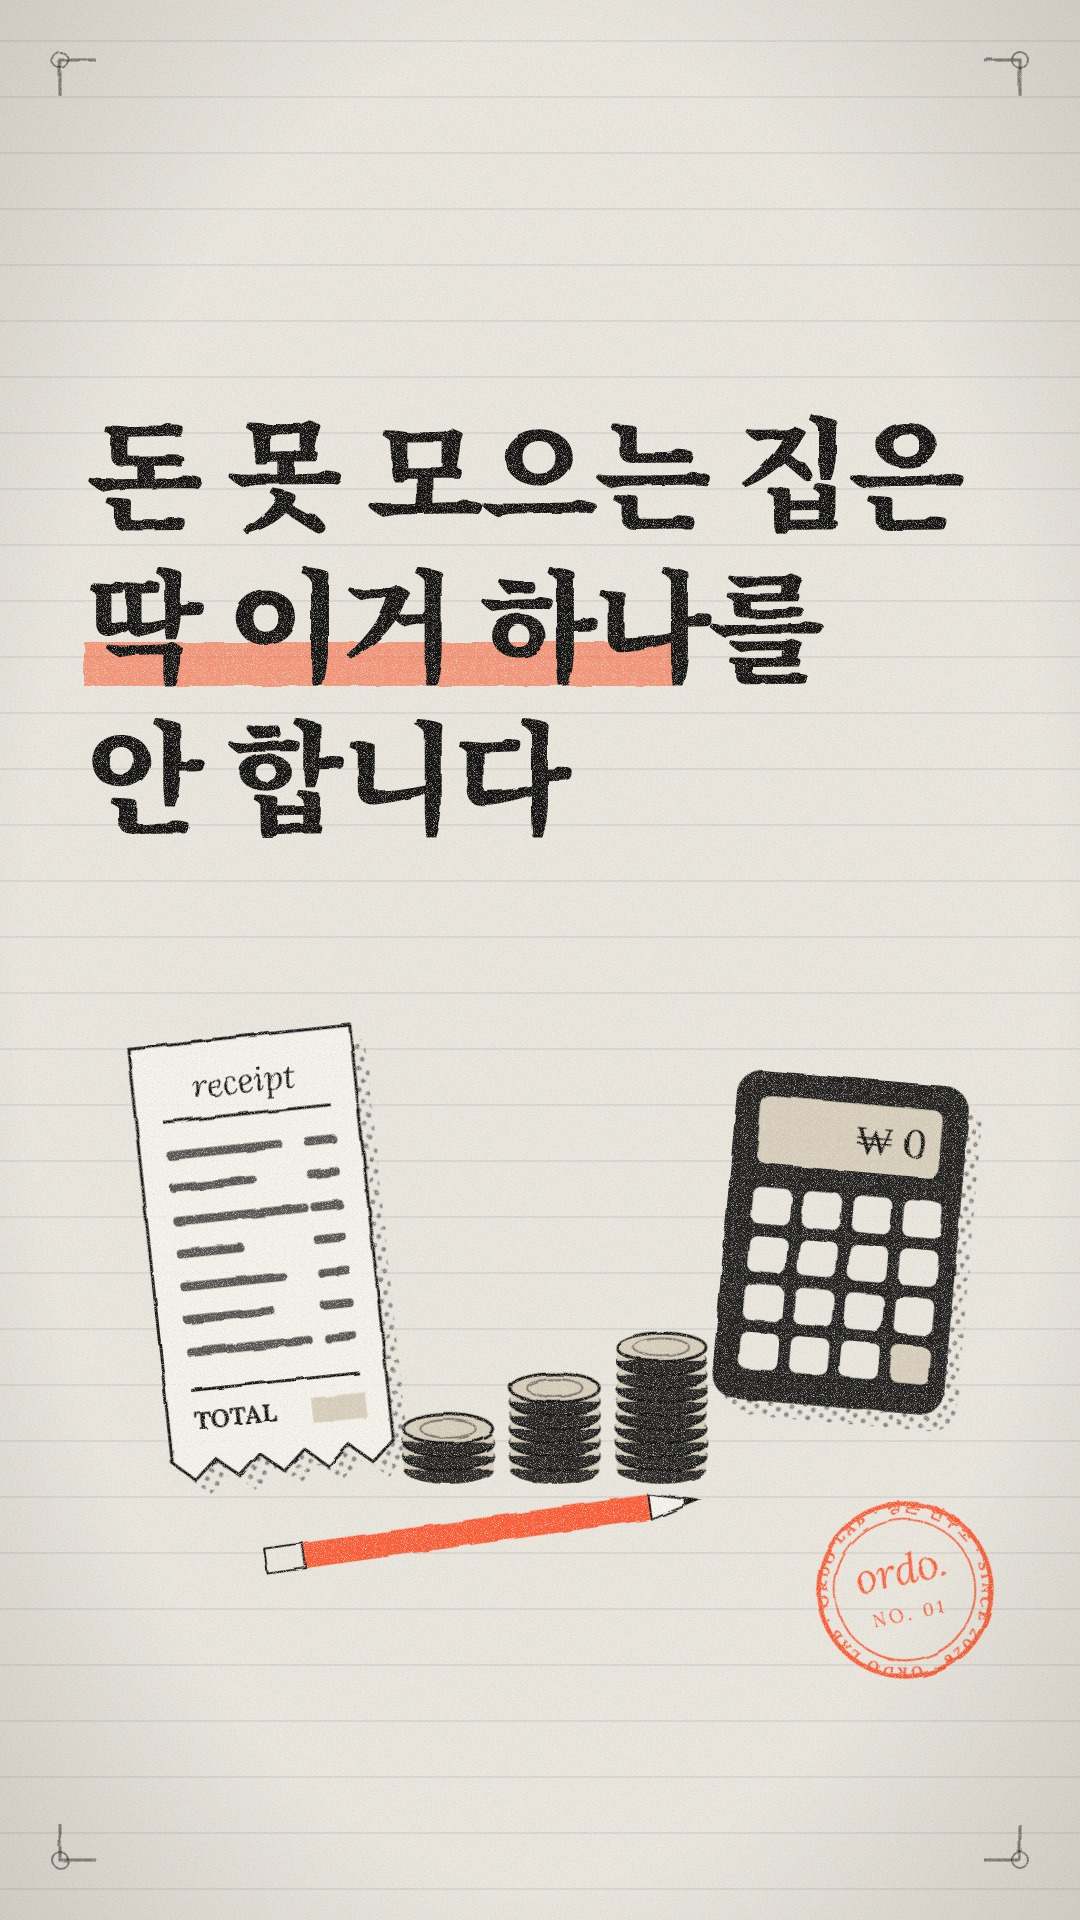
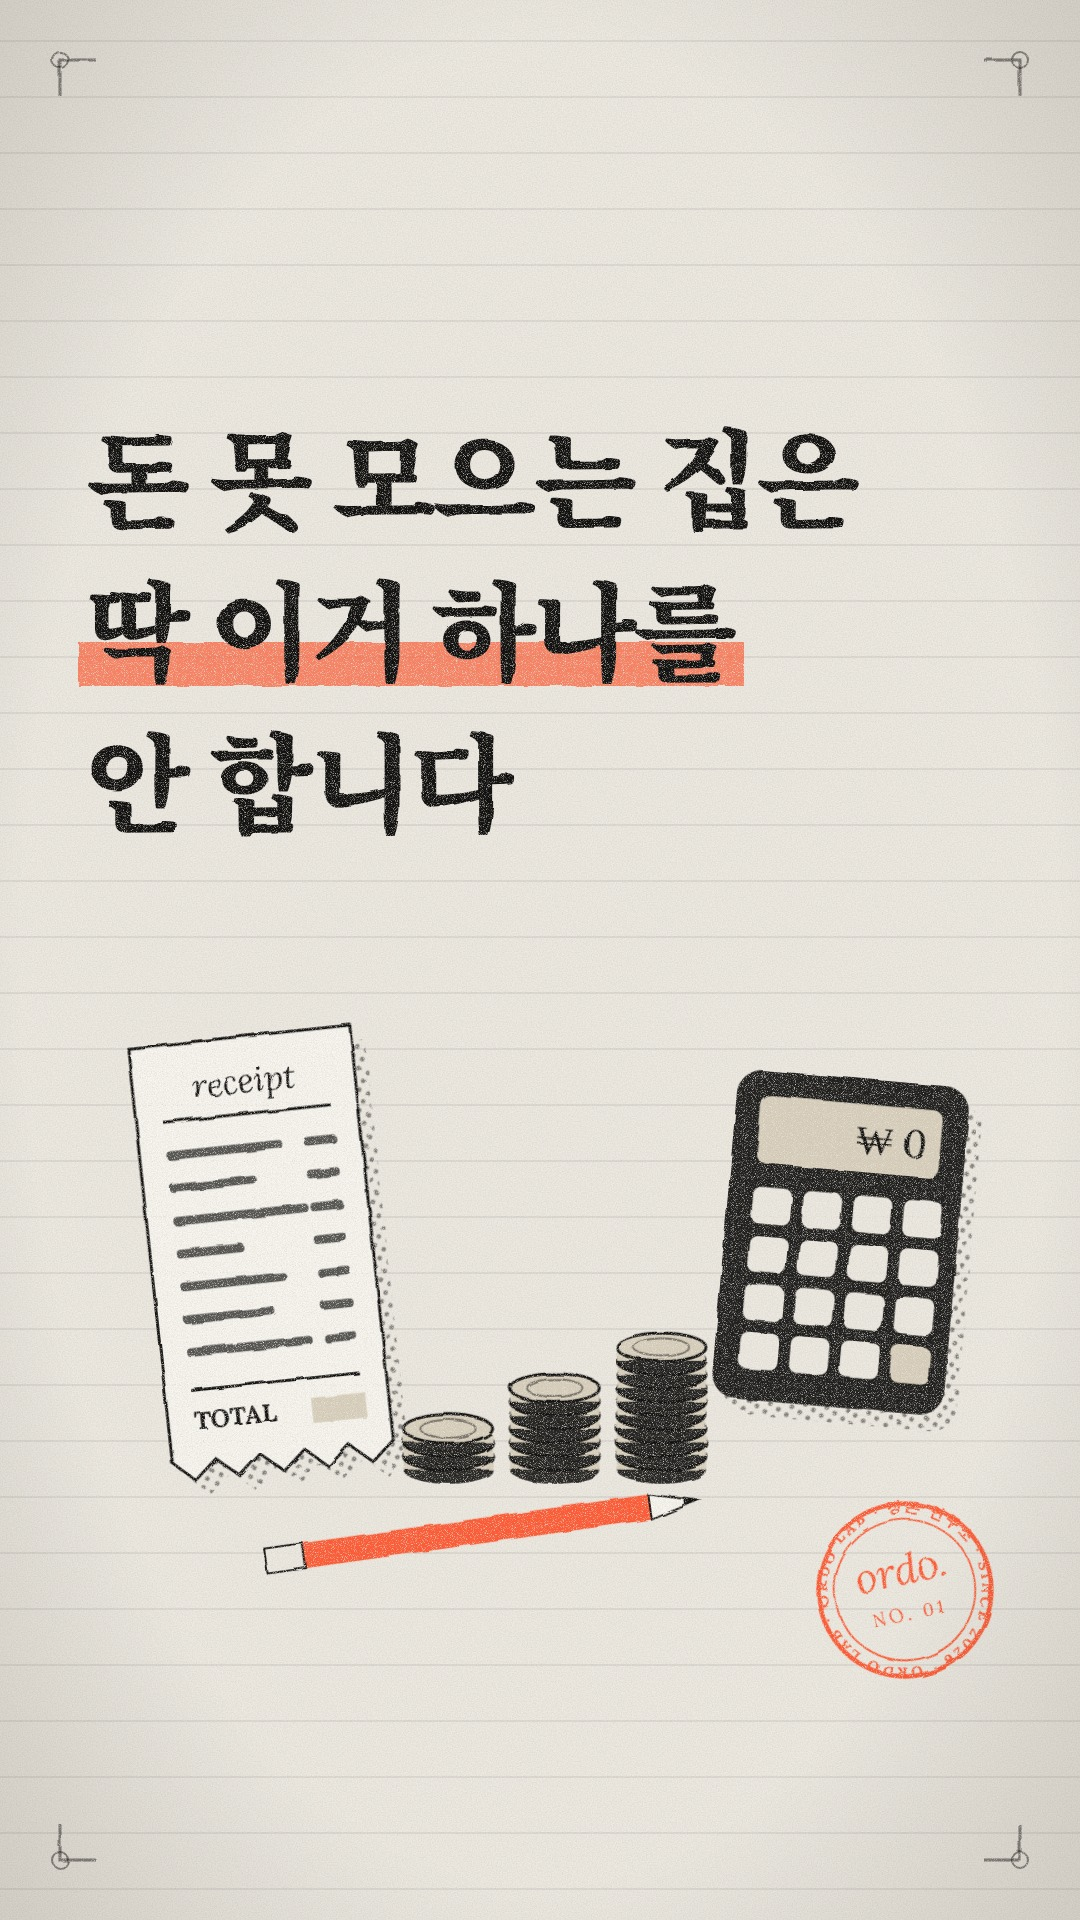
Add reel thumbnails 01-07 with per-template highlight colors
Claude-Session: https://claude.ai/code/session_01A546sgVgjx9eE6YNzQHihi

Changed region(s): [[0.0611, 0.2188, 0.8861, 0.4375]]

diff --git a/README.md b/README.md
@@ -17,9 +17,14 @@ ORDO LAB 브랜드 이미지 보관함 (노션 커버, 썸네일)
 |---|---|---|
 | P.01 | 월 고정비 통합 관리 | covers/premium/p01-fixed-cost-all-in-one.jpg |
 
-## 릴스 썸네일
+## 릴스 썸네일 (후킹 제목 + 그림만, 템플릿별 형광펜 색)
 
-| No. | 영상 | 파일 |
-|---|---|---|
-| 01 | 가계부 | thumbnails/reel-01-monthly-ledger.jpg |
-| 02 | 주간 보드 | thumbnails/reel-02-weekly-board.jpg |
+| No. | 영상 | 형광펜 | 파일 |
+|---|---|---|---|
+| 01 | 가계부 | 주황 | thumbnails/reel-01-monthly-ledger.jpg |
+| 02 | 주간 보드 | 하늘 | thumbnails/reel-02-weekly-board.jpg |
+| 03 | 구독 관리 | 핑크 | thumbnails/reel-03-subscription-audit.jpg |
+| 04 | 저축 챌린지 | 민트 | thumbnails/reel-04-savings-challenge.jpg |
+| 05 | 고정비 진단 | 노랑 | thumbnails/reel-05-fixed-cost-checkup.jpg |
+| 06 | 해외여행 | 보라 | thumbnails/reel-06-family-trip-kit.jpg |
+| 07 | 노션 초보 탈출 | 연두 | thumbnails/reel-07-notion-beginner.jpg |
